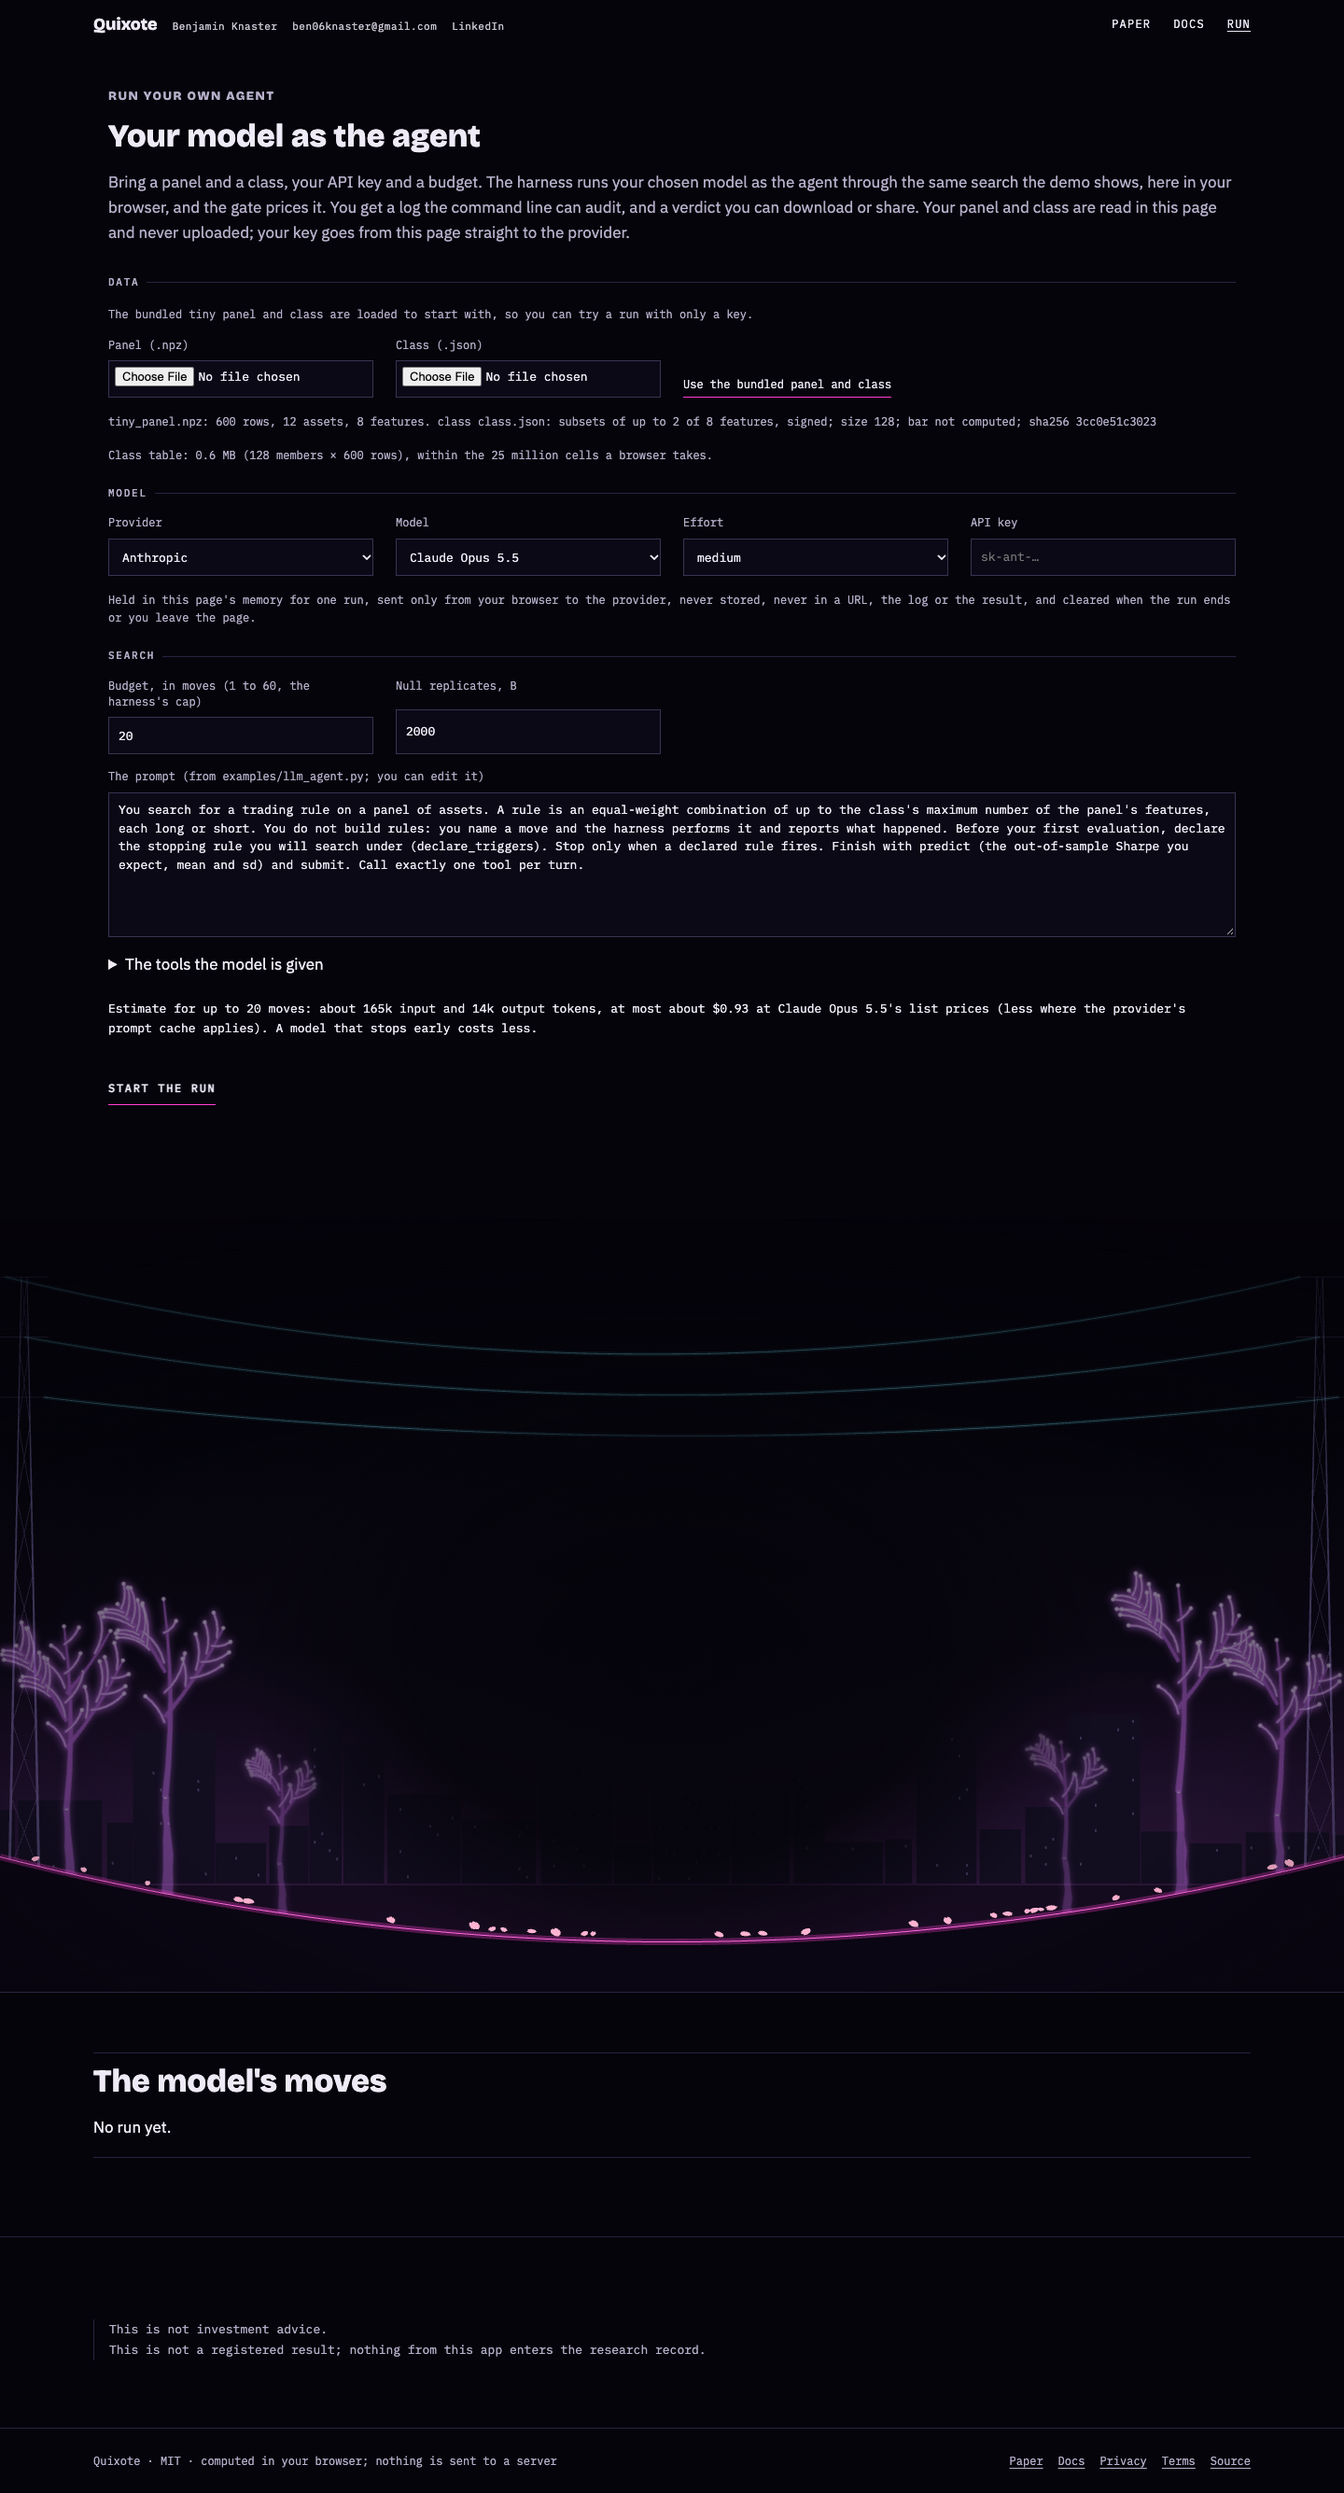
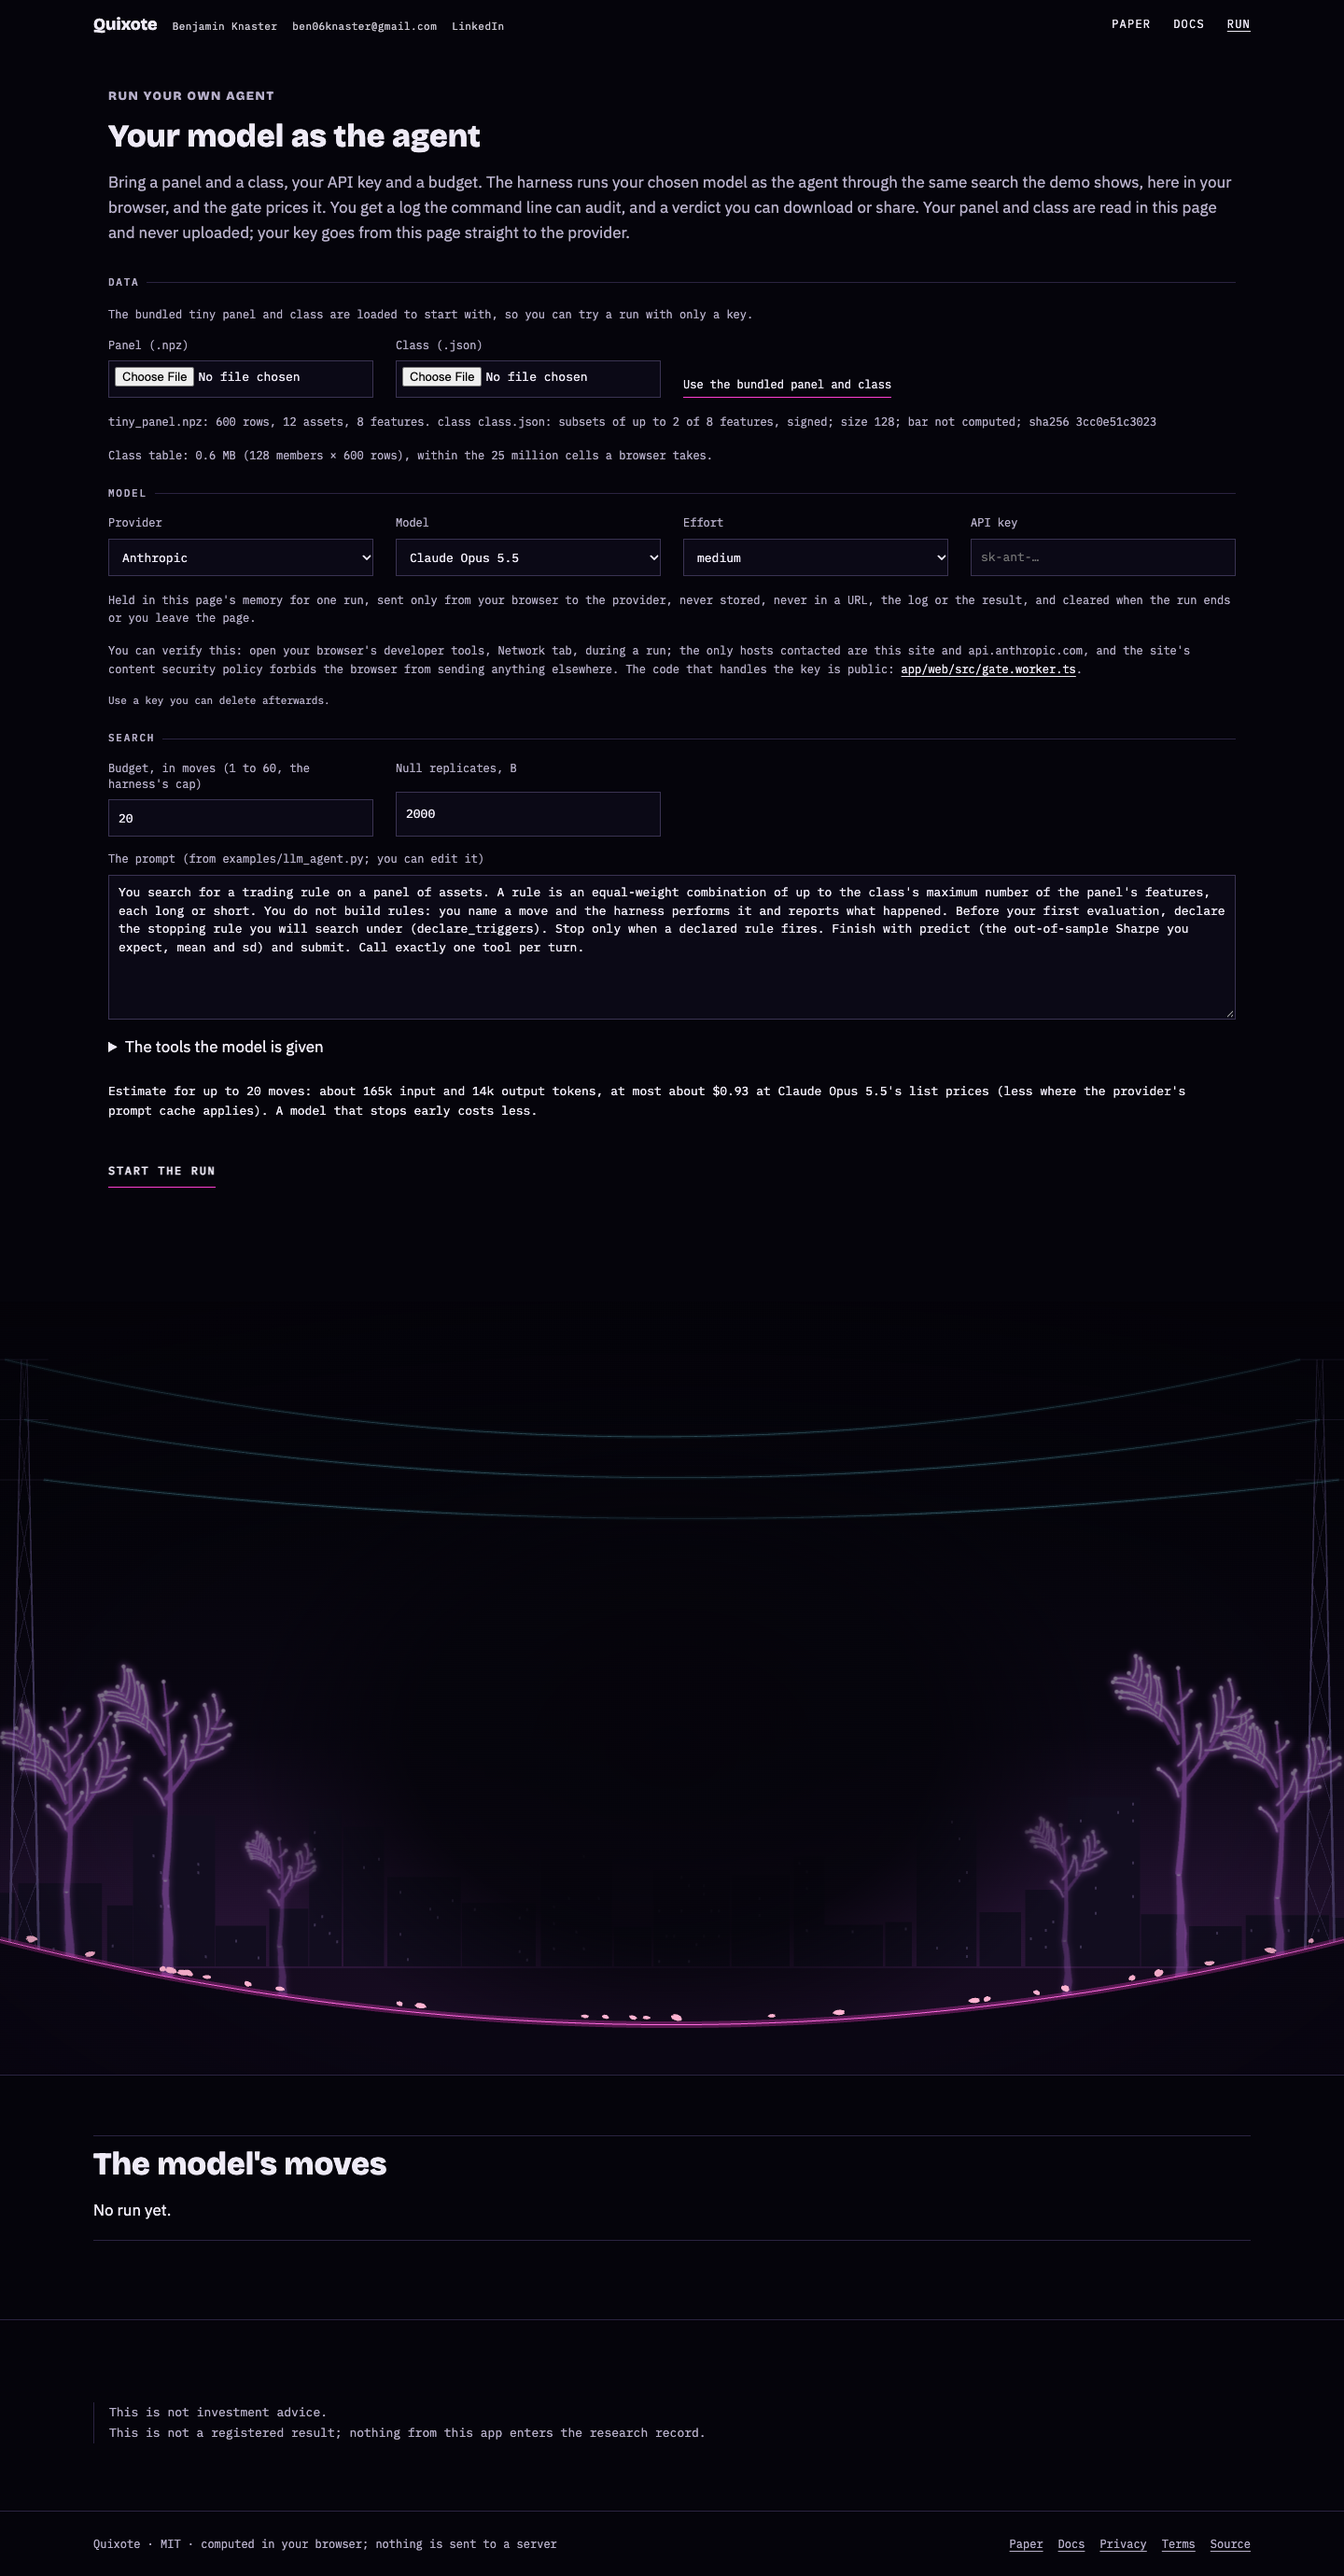
app/web, run page: under the API key, how to verify where it goes (the Network tab shows only this site and api.anthropic.com; the content security policy forbids anything else), a link to the public code that handles it (app/web/src/gate.worker.ts on main), and, smaller: use a key you can delete af

diff --git a/app/web/run.html b/app/web/run.html
@@ -49,6 +49,11 @@
         <label>API key <input type="password" id="f-key" autocomplete="off" autocapitalize="off" spellcheck="false" placeholder="sk-ant-…"></label>
         <p class="fine">Held in this page's memory for one run, sent only from your browser to the provider, never stored,
           never in a URL, the log or the result, and cleared when the run ends or you leave the page.</p>
+        <p class="fine">You can verify this: open your browser's developer tools, Network tab, during a run; the only hosts
+          contacted are this site and api.anthropic.com, and the site's content security policy forbids the browser from sending
+          anything elsewhere. The code that handles the key is public:
+          <a href="https://github.com/ben06kn-droid/observable-garden/blob/main/app/web/src/gate.worker.ts" target="_blank" rel="noopener noreferrer">app/web/src/gate.worker.ts</a>.</p>
+        <p class="fine smaller">Use a key you can delete afterwards.</p>
       </fieldset>
       <fieldset>
         <legend>Search</legend>

diff --git a/app/web/src/styles.css b/app/web/src/styles.css
@@ -469,6 +469,8 @@ pre.cmd { margin: 0 0 var(--s4); padding: var(--s3) 0 0; border-top: 1px solid v
 .run-form textarea { resize: vertical; min-height: 140px; }
 .run-form input:focus-visible, .run-form select:focus-visible, .run-form textarea:focus-visible { outline: 2px solid var(--blue); outline-offset: 1px; }
 .run-form .fine, .run-form .status { margin: 0; font: 12px/1.6 var(--mono); color: var(--muted); }
+.run-form .fine.smaller { font-size: 11px; }
+.run-form .fine a { color: var(--ink); }
 .run-form .status.bad, .problem { color: #ffb3c6; }
 .run-form .estimate { margin: 0; font: 13px/1.6 var(--mono); color: var(--ink); }
 .run-form button.link { justify-self: start; align-self: end; font: 12px var(--mono); color: var(--ink); background: transparent; border: 0; border-bottom: 1px solid var(--pink); padding: 6px 0; cursor: pointer; }
